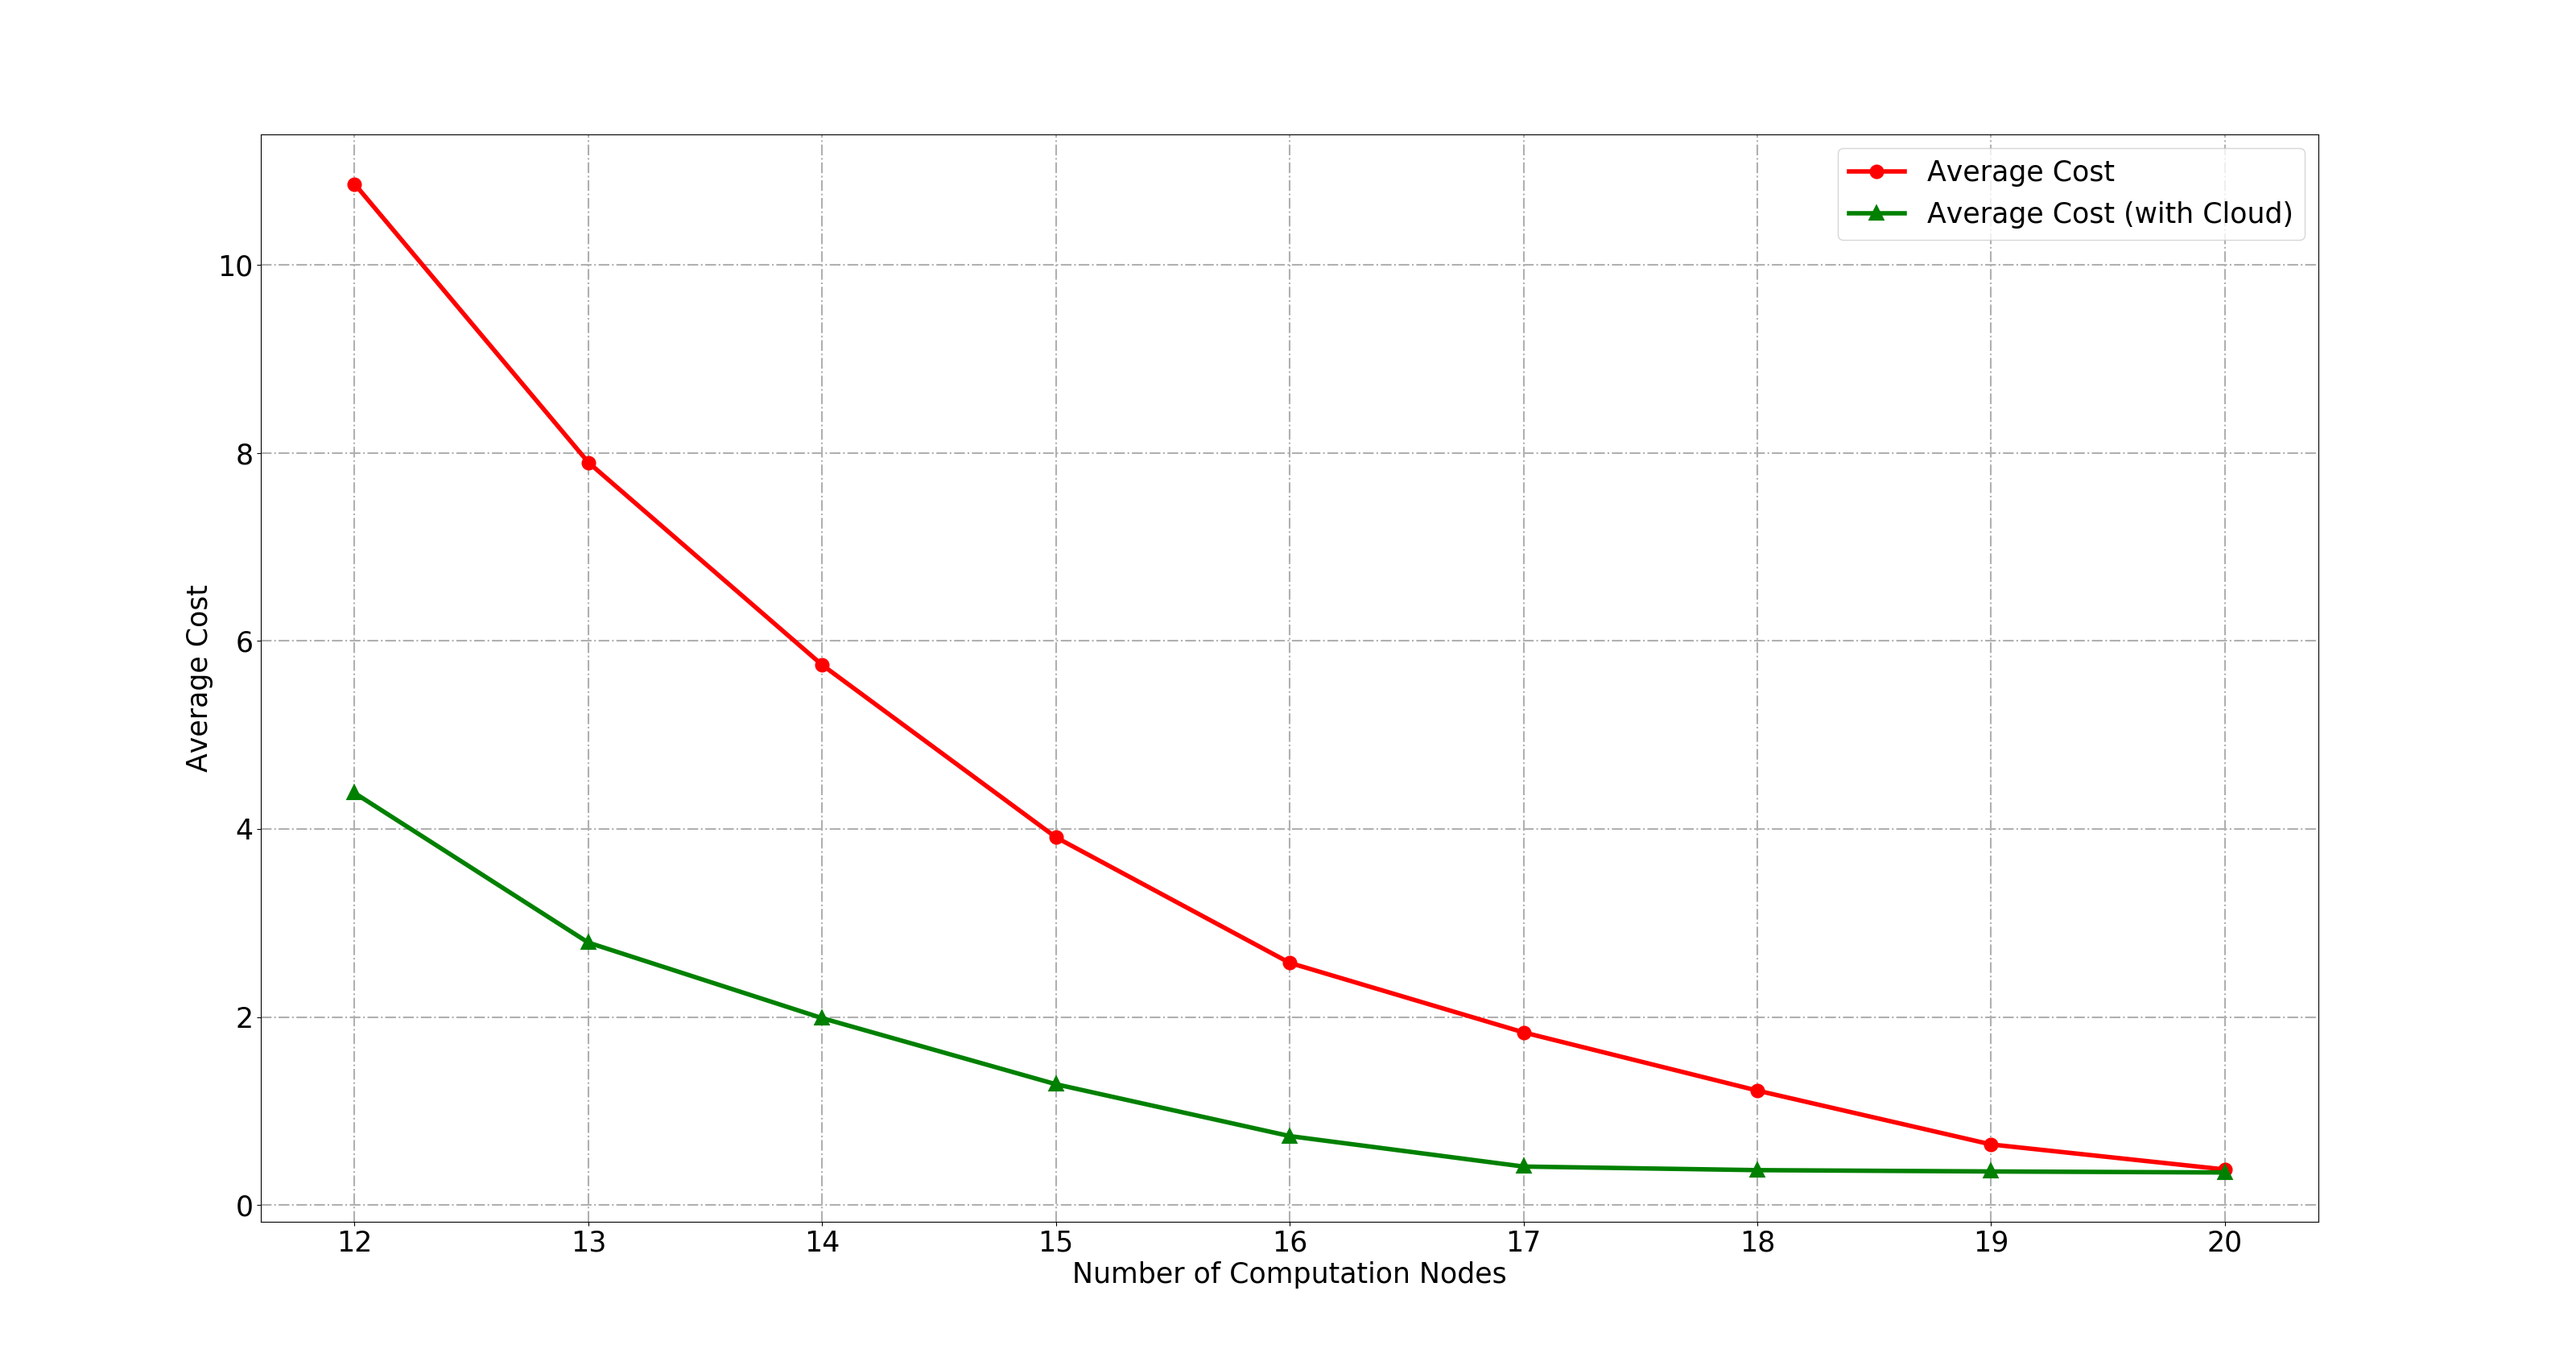
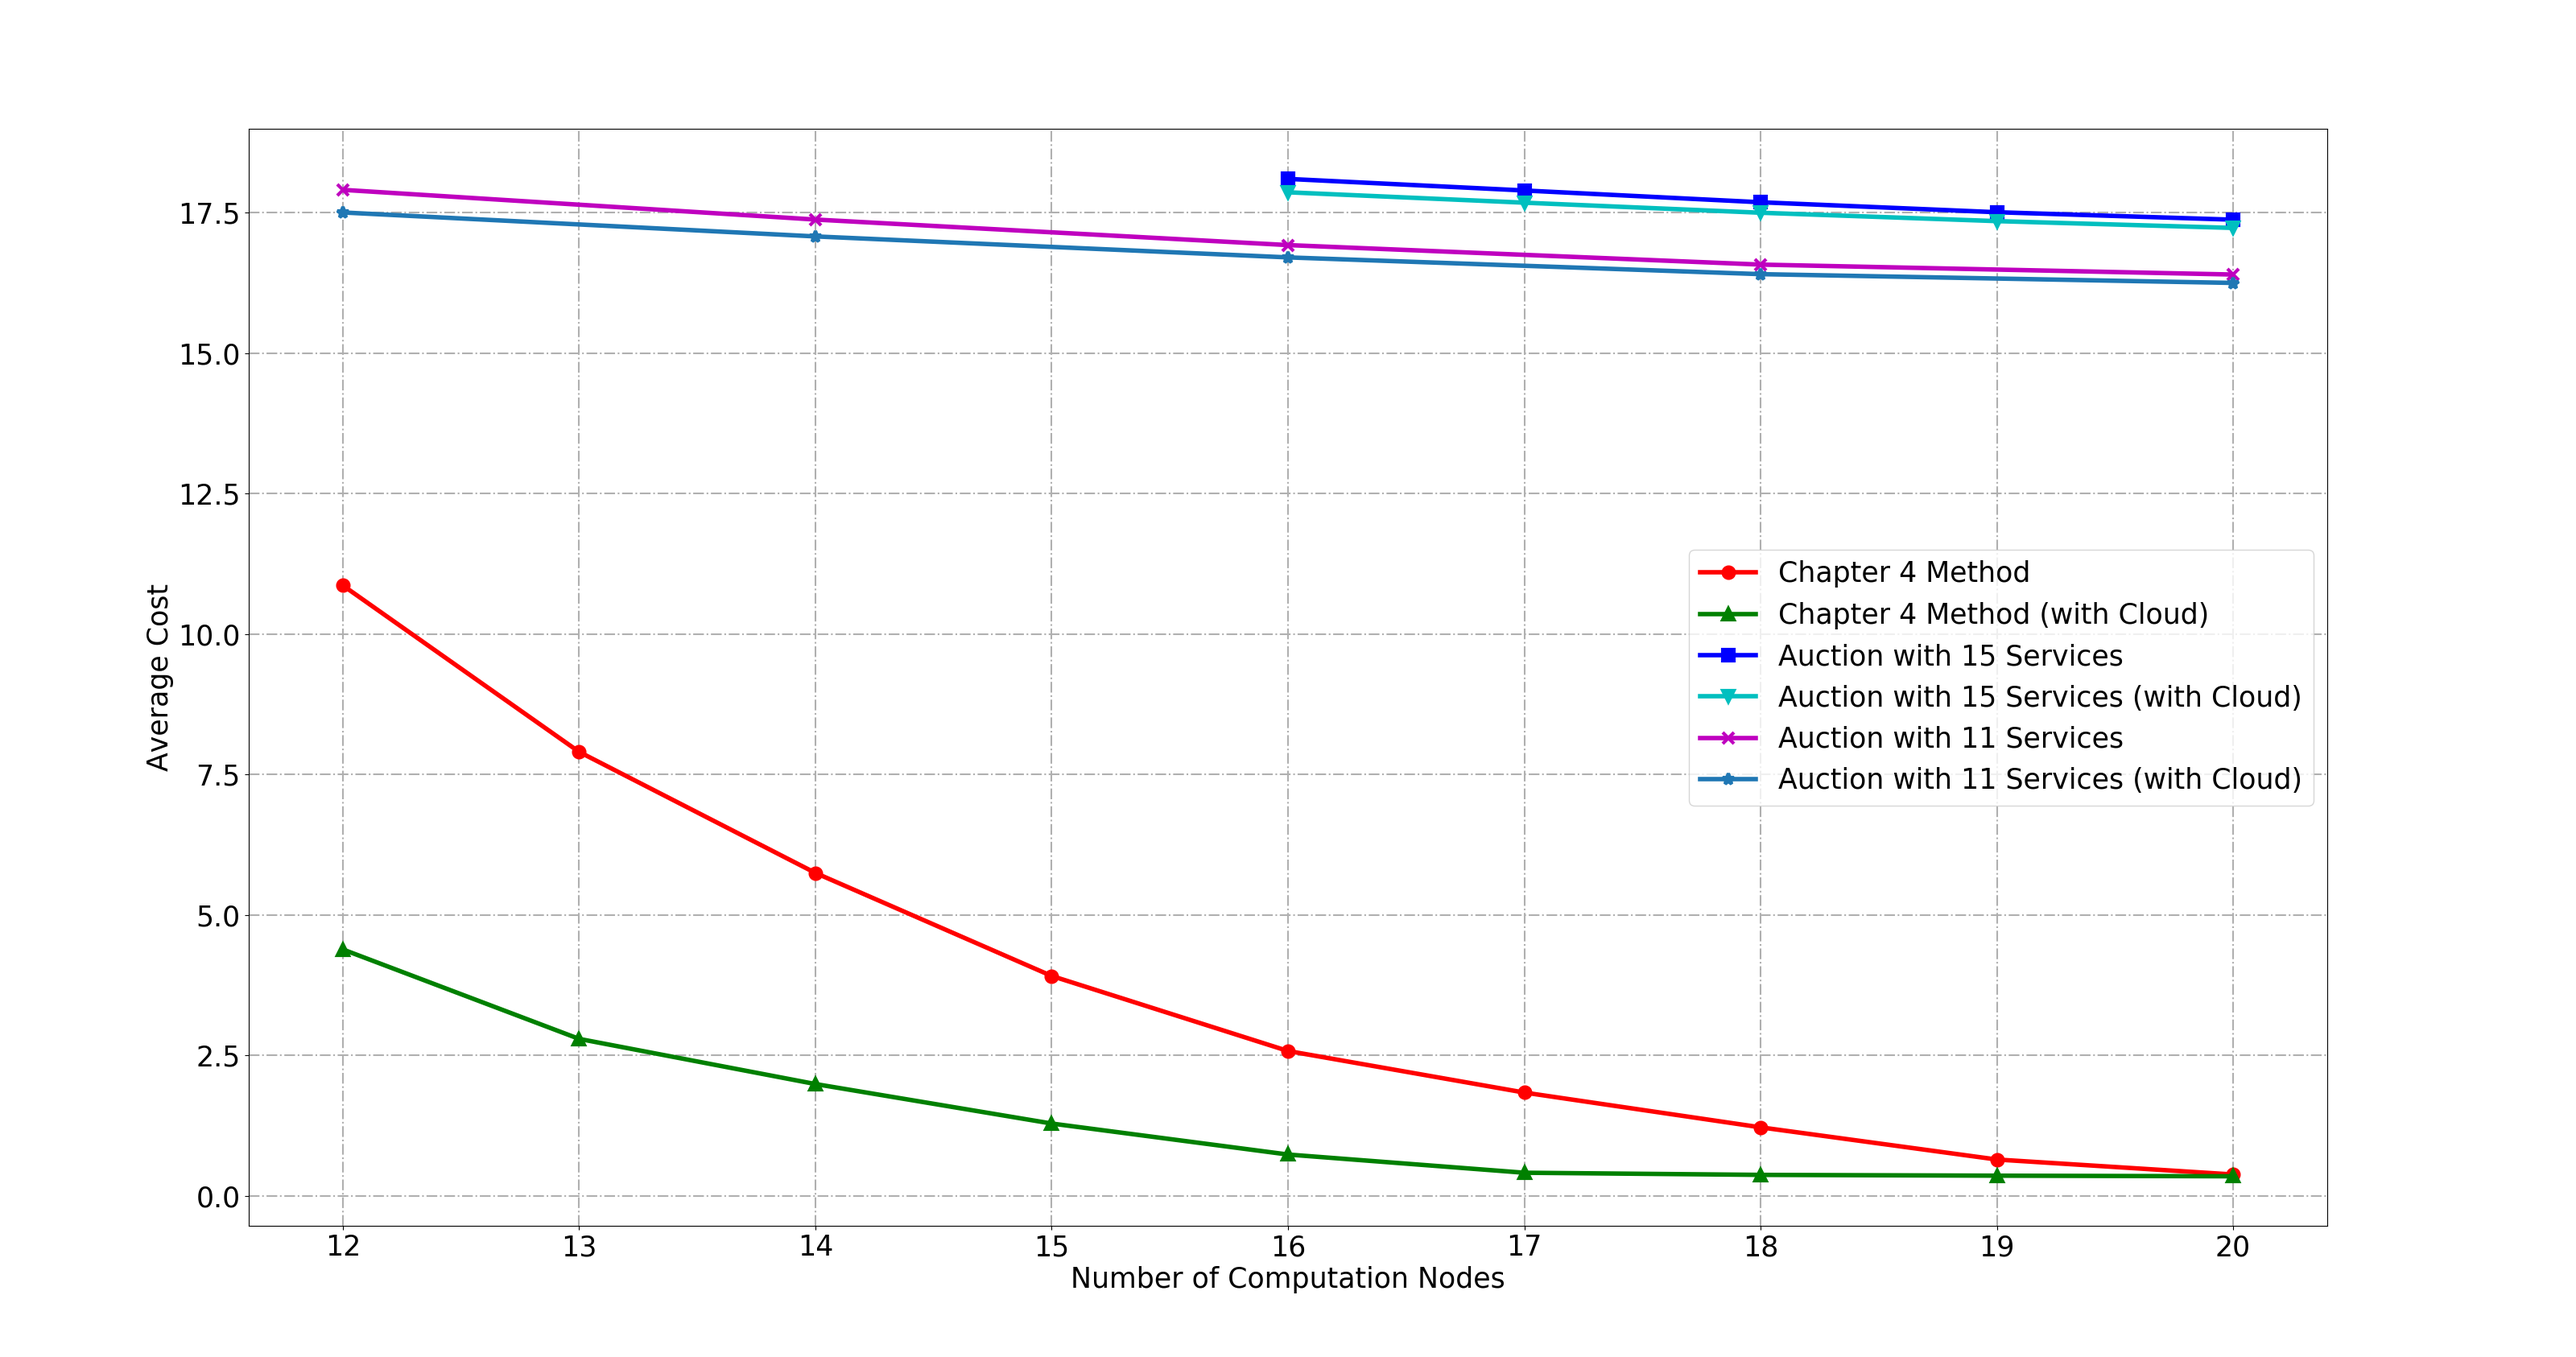
Add comparison to chapter 4

diff --git a/chapters/many_to_many_allocation.tex b/chapters/many_to_many_allocation.tex
@@ -214,7 +214,12 @@
     انتظار داریم که با افزایش تعداد منابع پردازشی، میانگین هزینه سرویسها کاهش پیدا کند. چرا که قدرت پردازشی بیشتری در شبکه وجود دارد و میتواند باعث کاهش تاخیر یا اختلاف نرخ مطلوب و نرخ بهینه شود.
 
     نتیجه این شبیهسازی در \cref{fig:many_to_many:sim6} آوده شدهاست.
-    همانطور که در شکل هم مشخص است با افزایش تعداد منابع پردازشی، میانگین هزینه سرویسها کاهشی است.
+    برای مقایسه نتایج با روش فصل قبل (تخصیص منابع مبتنی بر مزایده) مقایسه شدهاند.
+    با توجه به این که در روش تخصیص منابع مبتنی بر مزایده، تعداد منابع پردازشی باید بیشتر از تعداد سرویسها باشد، در دو حالت نتایج این روش محاسبه شدهاست.
+    در حالت اول تعداد سرویسها در هر دو روش برابر است به همین دلیل تعداد منابع پردازشی باید بیشتر از ۱۵ باشد.
+    در حالت دوم تعداد سرویسها از حداقل تعداد منابع پردازشی کمتر است به همین دلیل در محدوده منابع پردازشی روش این فصل مقایسه آورده شدهاست.
+    همانطور که در شکل هم مشخص است الگوریتم ارائه شده در این فصل نتایج بسیار بهتری ارائه میدهد.
+    همچنین با افزایش تعداد منابع پردازشی، میانگین هزینه سرویسها کاهشی است.
     علاوه بر این، میانگین هزینهی سرویسهای سناریوای که منبع پردازشی ابری در آن وجود داشت، همواره کمتر از سناریوی بدون منبع پردازش ابری است.
     دلیلش آن است که هرچه تعداد منابع پردازشی بیشتر باشد، ظرفیت پردازشی کل بیشتر میشود و برای سرویسها انتخاب بیشتری وجود دارد.
     همچنین، با افزایش تعداد منابع پردازشی لبه شبکه، اختلاف این دو سناریو کاهش پیدا میکند تا در تعداد ۲۰ منبع پردازشی لبه شبکه، تقریبا صفر میشود.
@@ -249,18 +254,23 @@
       \label{fig:many_to_many:sim8}
     \end{figure}
 
-    در شبیه سازی بعدی فرض میکنیم که تعداد منابع پردازشی ثابت و برابر ۱۵ باشد و تعداد سرویسها در بازهی $[12,18]$ تغییر کند.
-    به دلیل این که تعداد منابع پردازشی ثابت است، انتظار داریم افزایش تعداد سرویسها باعث افزایش هزینه میانگین سرویسهایی که از ابتدا در سیستم وجود داشتند شود.
-    در \cref{fig:many_to_many:sim9} میانگین هزینهی ۱۲ سرویس اول را برای تعداد سرویسهای شبیهسازی شده رسم کردهایم.
-    در این شکل مطابق انتظار با افزایش تعداد سرویسها، میانگین هزینه سرویسهایی که از ابتدا در سیستم قرار داشتند افزایش پیدا کردهاست.
-    علاوه بر این مانند بقیه شبیهسازیها، در سناریوای که دارای منبع پردازشی ابری است، میانگین هزینه ۱۲ سرویس اول کمتر از سناریوی بدون منبع پردازشی ابری است.
-    همچنین با افزایش تعداد سرویسها، اختلاف این دو سناریو افزایش پیدا میکند، چراکه منبع پردازشی ابری ظرفیت پردازشی بالایی دارد و سرویسها با استفاده از آن هزینهی خود را کاهش میدهند.
-
     \begin{figure}[]
       \centerline{\includegraphics[width=17cm]{graphics/many_to_many/sim_9}}
       \caption{تاثیر تعداد سرویسها بر میانگین هزینه سرویسها}
       \label{fig:many_to_many:sim9}
     \end{figure}
+
+    در شبیه سازی بعدی فرض میکنیم که تعداد منابع پردازشی ثابت و برابر ۱۵ باشد و تعداد سرویسها در بازهی $[12,18]$ تغییر کند.
+    برای مقایسه، نتایج حاصل از الگوریتم مبتنی مزایده آورده شده است.
+    چون در الگوریتم مبتنی بر مزایده باید تعداد سرویسها کمتر از تعداد منابع پردازشی باشد، نتایج الگوریتم مبتنی بر مزایده در دو حالت آورده شده است.
+    در حالت اول، تعداد منابع بیشتر از حداکثر تعداد سرویسها است و مقایسه در کل بازه رسم شدهاست.
+    در حالت دوم، تعداد منابع، برابر ۱۵ است، به همین دلیل نتایج فقط برای تعداد سرویسهای کمتر قابل محاسبه بوده است.
+    با توجه به شکل، واضح است که الگوریتم معرفی شده در این فصل به نتایج بسیار بهتری نسبت به الگوریتم تخصیص منابع مبتنی بر مزایده میرسد.
+    به دلیل این که تعداد منابع پردازشی ثابت است، انتظار داریم افزایش تعداد سرویسها باعث افزایش هزینه میانگین سرویسهایی که از ابتدا در سیستم وجود داشتند شود.
+    در \cref{fig:many_to_many:sim9} میانگین هزینهی ۱۲ سرویس اول را برای تعداد سرویسهای شبیهسازی شده رسم کردهایم.
+    در این شکل مطابق انتظار با افزایش تعداد سرویسها، میانگین هزینه سرویسهایی که از ابتدا در سیستم قرار داشتند افزایش پیدا کردهاست.
+    علاوه بر این مانند بقیه شبیهسازیها، در سناریوای که دارای منبع پردازشی ابری است، میانگین هزینه ۱۲ سرویس اول کمتر از سناریوی بدون منبع پردازشی ابری است.
+    همچنین با افزایش تعداد سرویسها، اختلاف این دو سناریو افزایش پیدا میکند، چراکه منبع پردازشی ابری ظرفیت پردازشی بالایی دارد و سرویسها با استفاده از آن هزینهی خود را کاهش میدهند.
 
   \section{جمعبندی و نتیجهگیری}
     در این فصل مسئله تخصیص منابع پردازشی به صورت چند به چند برای سرویسهای اینترنت اشیاء بررسی شد.
